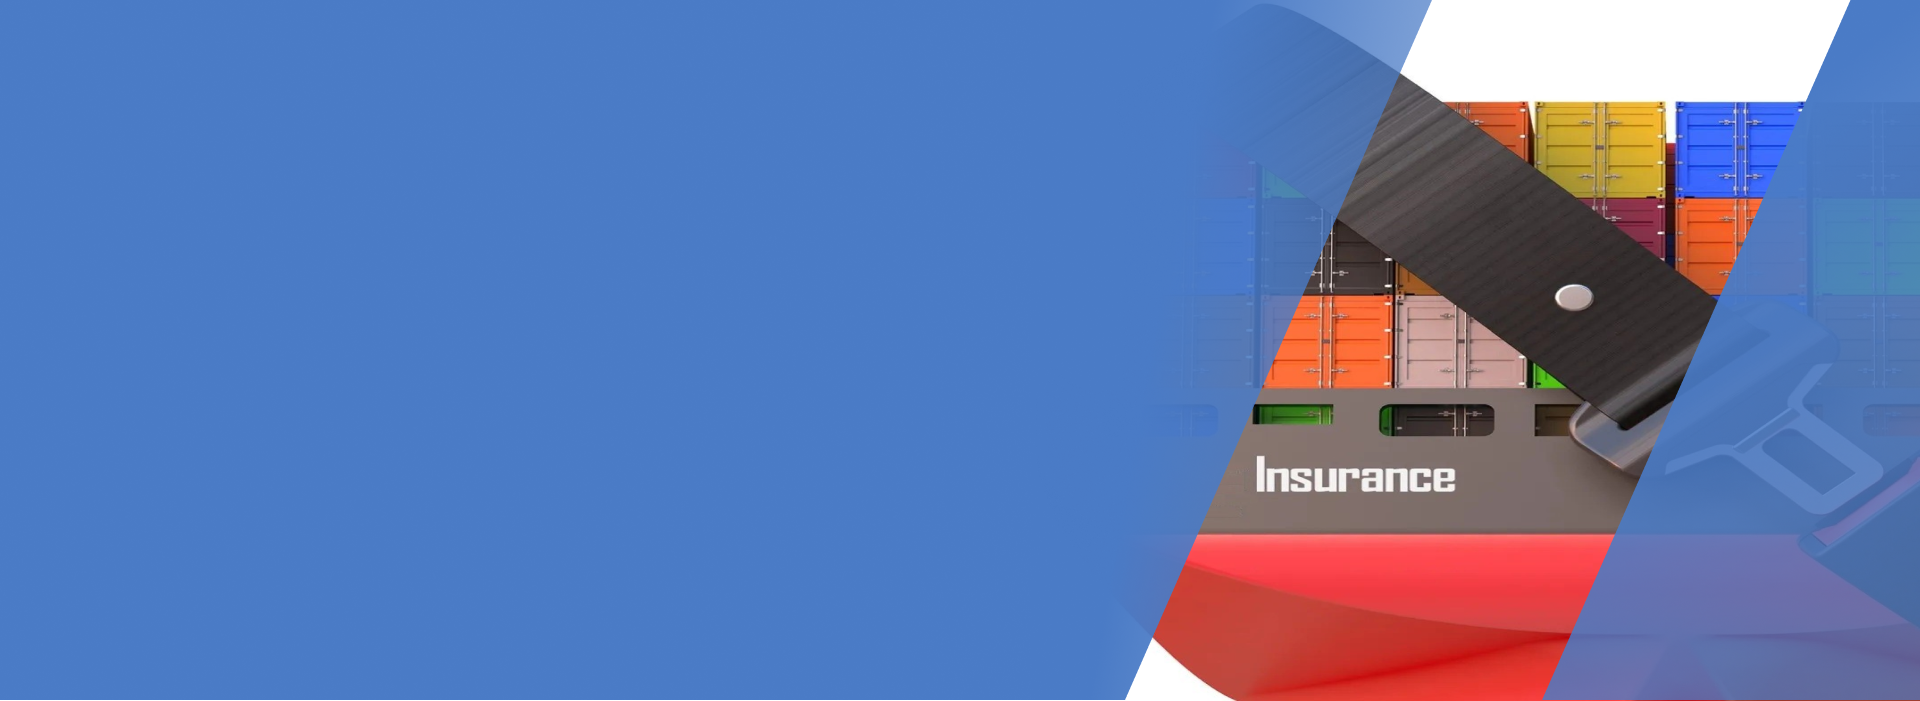
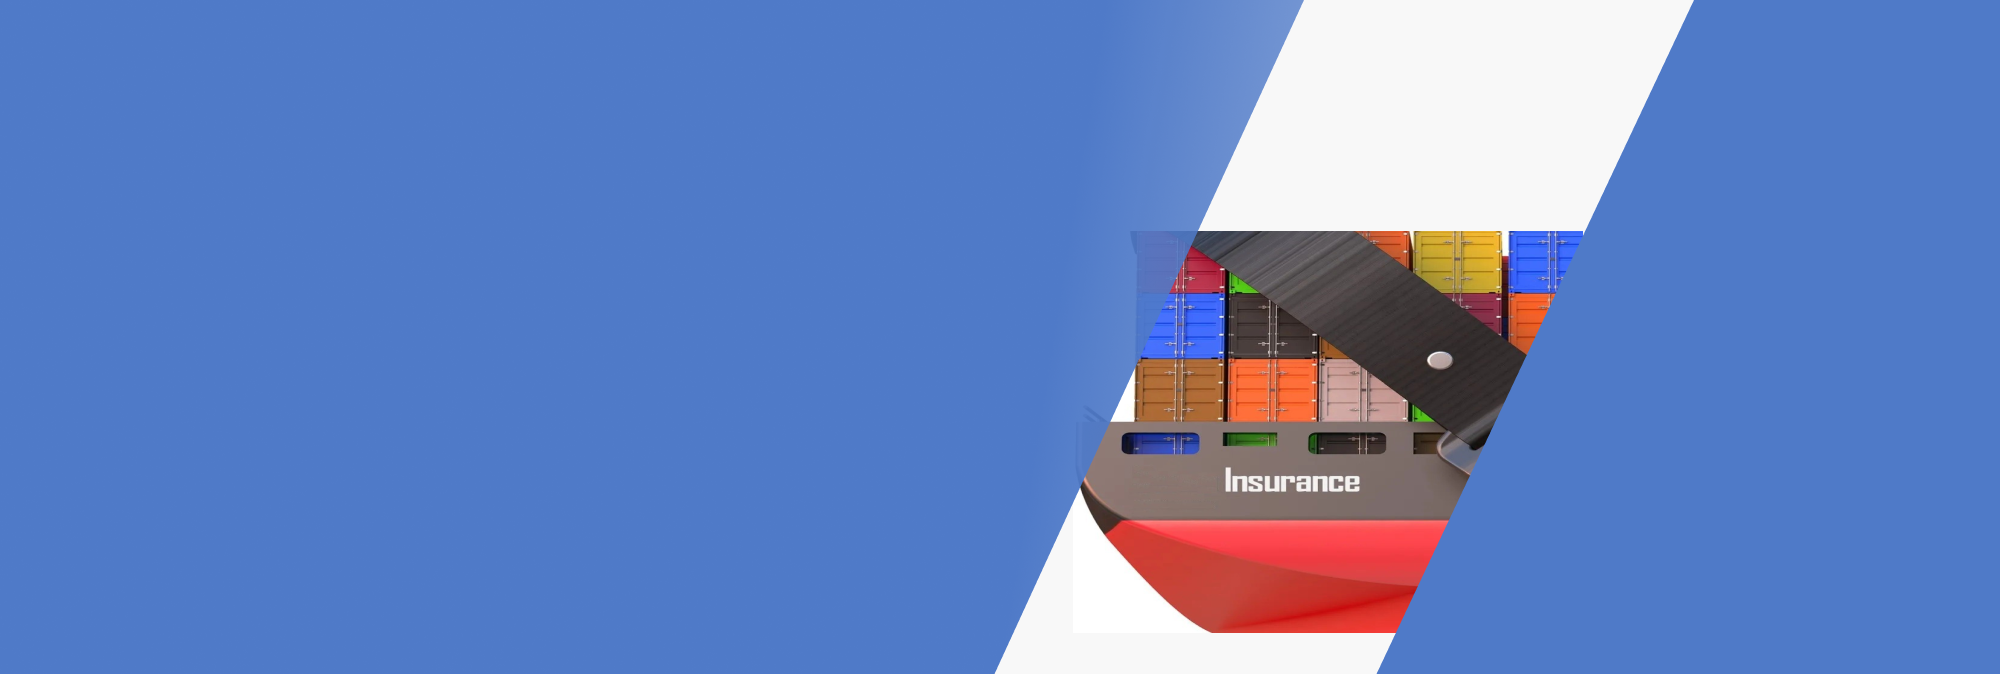
image change

diff --git a/public/css/style.css b/public/css/style.css
@@ -2034,18 +2034,18 @@ video.logo-video {
     background: #4e7ac7;
 }
 .freightcontentblk.airfrightcontblk {
-    background: url("/images/service-detail/air-img.png") no-repeat 54.5%
+    background: url("/images/service-detail/air-imag.png") no-repeat 54.5%
         center;
-    /* background-size: cover; */
+    background-size: cover;
 }
 .freightcontentblk.custcontblk {
-    background: url("/images/service-detail/customeimg.png") no-repeat
+    background: url("/images/service-detail/custom-new.png") no-repeat
         54.5% center;
-    /* background-size: cover; */
+    background-size: cover;
 }
 .freightcontentblk.wearhousecontblk {
-    background: url("/images/service-detail/warehouse.png") no-repeat 50% center;
-    /* background-size: cover; */
+    background: url("/images/service-detail/warehouse-1.png") no-repeat 54% center;
+    background-size: cover;
 }
 .freightcontentblk.wearhoscontblk {
     background: url("/images/service-detail/trucking-serdet.jpg") no-repeat 50%
@@ -2055,15 +2055,15 @@ video.logo-video {
 .freightcontentblk.insurancecontblk {
     background: url("/images/service-detail/insurance.png") no-repeat 54%
         center;
-    /* background-size: cover; */
+    background-size: cover;
 }
 .freightcontentblk.shippingcontblk {
-    background: url("/images/service-detail/forwarding.png") no-repeat 54%
+    background: url("/images/service-detail/forwarding-1.png") no-repeat 54%
         center;
-    /* background-size: cover; */
+    background-size: cover;
 }
 .freightcontentblk.rail-freight {
-    background: url("/images/service-detail/rail.png") no-repeat 54%
+    background: url("/images/service-detail/rail-new.png") no-repeat 54%
         center;
     background-size: cover;
 }
